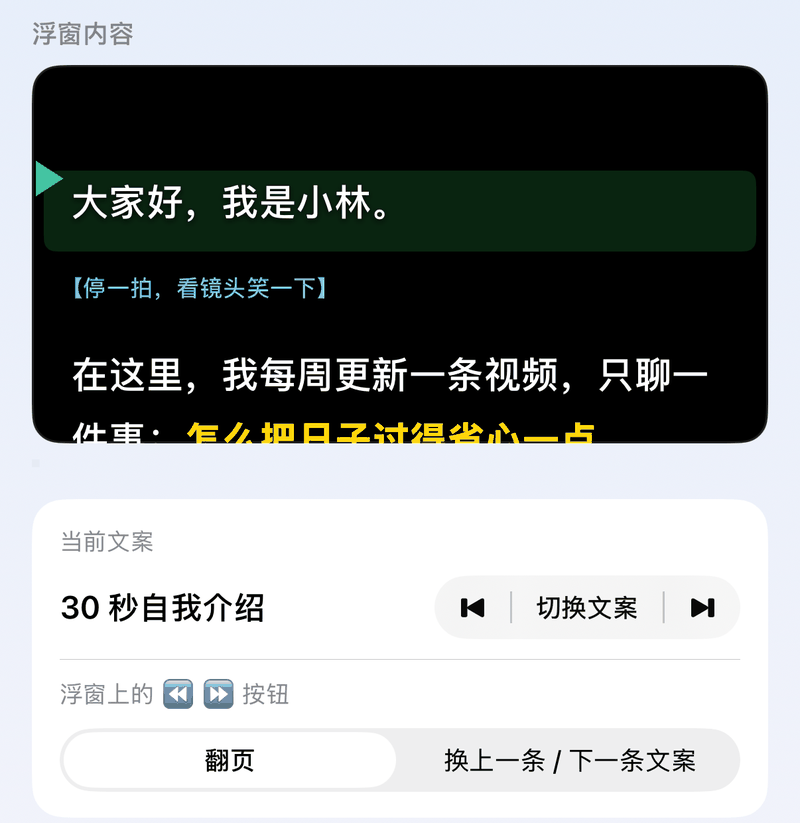
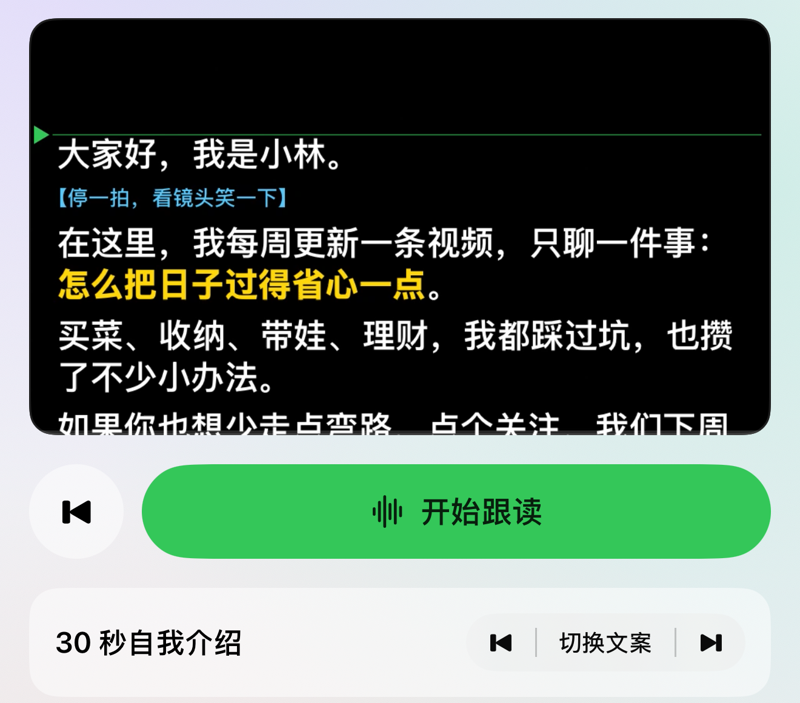
同步官网 2026-10-02 00:44

diff --git a/my-teleprompter/使用说明书.html b/my-teleprompter/使用说明书.html
@@ -542,7 +542,7 @@
 <div class="scroll"><table><thead><tr><th>按钮</th><th>作用</th></tr></thead><tbody><tr><td>≡</td><td>按住拖动窗口（也可以直接拖文字区域）</td></tr><tr><td>▶ / ⏸</td><td>开始 / 暂停（空格键）</td></tr><tr><td>‹ 2/5 ›</td><td>仅节目单播出时显示：上一条 / 当前第几条 / 下一条</td></tr><tr><td>⏮</td><td>从头开始（<kbd>R</kbd>）</td></tr><tr><td>✏ / ✓</td><td>进入 / 结束编辑（<kbd>E</kbd>）</td></tr><tr><td>模式名称</td><td>点开切换：智能跟读 / 匀速滚动 / 手动翻页</td></tr><tr><td>音柱</td><td>仅智能跟读模式显示，表示麦克风状态（见第 7.1 节）</td></tr><tr><td>🐢 数字 🐇</td><td>仅匀速滚动模式显示：减速 / 当前速度 / 加速</td></tr><tr><td>段落图标</td><td>仅稿件里有段落标题时显示：点开跳到指定段落</td></tr><tr><td>A− / A+</td><td>缩小 / 放大字号</td></tr><tr><td>状态提示</td><td>如「正在聆听…」「已暂停」「编辑中 · <kbd>Esc</kbd> 结束」</td></tr><tr><td>百分比</td><td>阅读进度</td></tr><tr><td>⇋</td><td>镜像翻转（<kbd>M</kbd>）</td></tr><tr><td>⏱</td><td>显示 / 隐藏计时器（<kbd>T</kbd>）</td></tr><tr><td>📺</td><td>外接屏幕输出开 / 关</td></tr><tr><td>👁</td><td>隐形提词开 / 关（划斜线表示已开启）</td></tr><tr><td>⊹</td><td>鼠标穿透开 / 关</td></tr><tr><td>✕</td><td>关闭提词窗（<kbd>Esc</kbd>）</td></tr></tbody></table></div>
 <p>亮起（有浅色底）的按钮表示该功能已开启。</p>
 <h3>6.3 阅读线、当前句与已读变暗</h3>
-<ul><li>左侧的<strong>橙色三角和细线</strong>是阅读线，正在读的内容会停在这条线上。位置可在设置里调整（默认距顶部 30%）。</li><li><strong>当前句高亮</strong>：正在读的整句话加一条半透明色带（默认强调色，可改色或关闭）。<ul><li>智能跟读模式：按识别到的朗读位置；</li><li>匀速 / 手动模式：取阅读线所在的那一句；</li><li>按句号、问号、感叹号、分号、省略号和换行分句；编辑时暂停高亮；外接屏幕同步显示。</li></ul></li><li>读过的文字会<strong>变暗</strong>，方便你知道读到了哪里（可关闭或改颜色）。</li></ul>
+<ul><li>左侧的<strong>橙色三角和细线</strong>是阅读线，正在读的内容会停在这条线上。位置可在设置里调整（默认距顶部 30%）。</li><li><strong>当前句高亮</strong>：正在读的整句话加一条半透明色带（默认强调色，可改色或关闭）。智能跟读时改成逐字色带：只给读过的部分铺色、一个字一个字往前推，读过的字不变暗；这时不用发光 / 描边（效果重复）。<ul><li>智能跟读模式：按识别到的朗读位置；</li><li>匀速 / 手动模式：取阅读线所在的那一句；</li><li>按句号、问号、感叹号、分号、省略号和换行分句；编辑时暂停高亮；外接屏幕同步显示。</li></ul></li><li>读过的文字会<strong>变暗</strong>，方便你知道读到了哪里（可关闭或改颜色）。</li></ul>
 <h3>6.4 调整窗口</h3>
 <ul><li><strong>移动</strong>：拖动工具栏左侧的 ≡，或直接拖动文字区域。</li><li><strong>改变大小</strong>：拖动窗口边缘或四角。窗口位置和大小会被记住。</li><li><strong>手动滚动</strong>：任何模式下都可以用触控板或滚轮滚动文字。</li><li><strong>进度</strong>：工具栏右侧显示百分比。</li></ul>
 <h3>6.5 关闭与隐藏</h3>
@@ -817,7 +817,7 @@
 <h3>16.3 提词模式</h3>
 <p>四种模式的切换（两行两列按钮，这里设置的是默认模式）；智能跟读的<strong>麦克风</strong>、<strong>跟读提前量</strong>、<strong>专有名词</strong>；匀速模式的<strong>滚动速度</strong>和<strong>开始前倒计时</strong>；歌词同步的<strong>提前显示</strong>。详见第 7 章。</p>
 <h3>16.4 文字</h3>
-<div class="scroll"><table><thead><tr><th>设置</th><th>范围</th><th>默认</th></tr></thead><tbody><tr><td>字体</td><td>系统默认 / 推荐字体（苹方、圆体、黑体、冬青黑体等）/ 本机全部字体</td><td>系统默认</td></tr><tr><td>字重</td><td>常规 / 中等 / 半粗 / 粗体 / 特粗</td><td>半粗</td></tr><tr><td>字号</td><td>18–160</td><td>40</td></tr><tr><td>字间距</td><td>0–12</td><td>0</td></tr><tr><td>行距</td><td>0–60</td><td>10</td></tr><tr><td>段间距</td><td>0–80</td><td>15</td></tr><tr><td>左右边距</td><td>0–160</td><td>36</td></tr><tr><td>居中对齐</td><td>开 / 关</td><td>关</td></tr><tr><td>文字颜色</td><td>任选</td><td>白色</td></tr><tr><td>高亮当前句</td><td>开 / 关</td><td>开</td></tr><tr><td>高亮样式</td><td>色带 / 发光 / 描边加粗（黄字黑边）</td><td>色带</td></tr><tr><td>强光模式</td><td>开 / 关：白底特粗黑字，已读不变暗，当前句加粗加粗下划线，重点和提示换深色；灯下、提词器玻璃反光时用</td><td>关</td></tr><tr><td>当前句颜色</td><td>跟随强调色 / 自选</td><td>跟随强调色</td></tr><tr><td>已读文字变暗</td><td>开 / 关</td><td>开</td></tr><tr><td>已读颜色</td><td>任选</td><td>灰色</td></tr></tbody></table></div>
+<div class="scroll"><table><thead><tr><th>设置</th><th>范围</th><th>默认</th></tr></thead><tbody><tr><td>字体</td><td>系统默认 / 推荐字体（苹方、圆体、黑体、冬青黑体等）/ 本机全部字体</td><td>系统默认</td></tr><tr><td>字重</td><td>常规 / 中等 / 半粗 / 粗体 / 特粗</td><td>半粗</td></tr><tr><td>字号</td><td>18–160</td><td>40</td></tr><tr><td>字间距</td><td>0–12</td><td>0</td></tr><tr><td>行距</td><td>0–60</td><td>10</td></tr><tr><td>段间距</td><td>0–80</td><td>15</td></tr><tr><td>左右边距</td><td>0–160</td><td>36</td></tr><tr><td>居中对齐</td><td>开 / 关</td><td>关</td></tr><tr><td>文字颜色</td><td>任选</td><td>白色</td></tr><tr><td>高亮当前句</td><td>开 / 关</td><td>开</td></tr><tr><td>高亮样式</td><td>色带 / 发光 / 描边加粗（黄字黑边）；智能跟读时一律用逐字色带</td><td>色带</td></tr><tr><td>强光模式</td><td>开 / 关：白底特粗黑字，已读不变暗，当前句加粗加粗下划线，重点和提示换深色；灯下、提词器玻璃反光时用</td><td>关</td></tr><tr><td>当前句颜色</td><td>跟随强调色 / 自选</td><td>跟随强调色</td></tr><tr><td>已读文字变暗</td><td>开 / 关</td><td>开</td></tr><tr><td>已读颜色</td><td>任选</td><td>灰色</td></tr></tbody></table></div>
 <p><strong>字体提示</strong></p>
 <ul><li>宋体、楷体、仿宋笔画较细，远距离或提词玻璃上不易看清，选择时会有提示，建议配合粗体使用。</li><li>字体设置保存在工程文件里。换到没有安装该字体的电脑时，会自动改用系统字体，并在设置里提示。</li><li>字体、字重、字间距、段间距、边距同时作用于提词窗和外接屏幕；编辑区保持系统字体，方便编辑。</li></ul>
 <h3>16.5 提词窗</h3>
@@ -839,7 +839,7 @@
 </section><section class="chapter" id="s29"><h2><span class="marker" aria-hidden="true"></span><span class="num"></span>16a. 版本与授权</h2>
 <p>三个版本：<strong>免费版</strong>（提词永久免费，智能跟读每天 20 分钟）、<strong>Pro</strong>（个人创作者：不限时长，专业录制和输出）、<strong>MAX</strong>（团队 / 工作室：多人协作、多机主备、机构授权）。手机和电脑是同一张表：</p>
 <p><strong>终身 MAX</strong>：¥1999 一次买断，终身享有 MAX 全部功能（含团队功能）和以后的更新；App Store 版在订阅页「终身买断」里买，官网版用终身序列号（授权码）激活。AI 算力点不含，另外买。Pro 只有订阅。</p>
-<div class="scroll"><table><thead><tr><th>功能</th><th>免费版</th><th>Pro</th><th>MAX</th></tr></thead><tbody><tr><td>声控 / 匀速 / 手动翻页，稿件不限，提词板，极简模式</td><td>✓</td><td>✓</td><td>✓</td></tr><tr><td>智能跟读</td><td>每天 20 分钟</td><td>不限</td><td>不限</td></tr><tr><td>拍摄提词（美颜、滤镜、换背景）</td><td>每天 20 分钟</td><td>不限</td><td>不限</td></tr><tr><td>4K / 60 帧拍摄</td><td>1080p / 30 帧</td><td>✓</td><td>✓</td></tr><tr><td>专业录制：ProRes、Apple Log（方便后期调色）</td><td>—</td><td>—</td><td>✓</td></tr><tr><td>批量连拍：几篇稿子排成清单，拍完一条自动换下一条</td><td>—</td><td>—</td><td>✓</td></tr><tr><td>浮窗提词</td><td>每天 20 分钟（和拍摄共用）</td><td>不限</td><td>不限</td></tr><tr><td>口播复盘</td><td>每天 3 次</td><td>不限</td><td>不限</td></tr><tr><td>剪掉重读、去气口、人声增强、识别字幕</td><td>每天 3 条</td><td>不限</td><td>不限</td></tr><tr><td>SRT 字幕导出</td><td>—</td><td>✓</td><td>✓</td></tr><tr><td>眼神校正</td><td>—</td><td>✓</td><td>✓</td></tr><tr><td>内容日历：排期、今天要拍、到期提醒</td><td>最多排 10 条</td><td>不限</td><td>不限</td></tr><tr><td>录音转文字、变成稿件</td><td>每天 10 分钟</td><td>每天 1 小时</td><td>不限</td></tr><tr><td>AI 写稿、AI 助手</td><td>✓</td><td>✓</td><td>✓</td></tr><tr><td>工程：全部稿件和设置存成一个文件</td><td>—</td><td>—</td><td>✓</td></tr><tr><td>历史版本</td><td>最近 5 版</td><td>每篇 80 版</td><td>每篇 80 版</td></tr><tr><td>手机遥控、跟随电脑（从机）、多机同步</td><td>✓</td><td>✓</td><td>✓</td></tr><tr><td>同时使用的设备（主设备 + 遥控 / 从机）</td><td>2 台</td><td>3 台</td><td>5 台</td></tr><tr><td>Apple Watch 遥控、手机与电脑互传、OBS / vMix 浏览器源</td><td>—</td><td>✓</td><td>✓</td></tr><tr><td>外接屏幕 / 多屏输出</td><td>—</td><td>✓</td><td>✓</td></tr><tr><td>电脑版：NDI 输出、直播弹幕</td><td>—</td><td>✓</td><td>✓</td></tr><tr><td>电脑版：显示当前时间</td><td>—</td><td>✓</td><td>✓</td></tr><tr><td>电脑版：网页多人改稿（团队协作、在线名单、自动合并）</td><td>—</td><td>—</td><td>✓</td></tr><tr><td>电脑版：团队排期（给每条内容指定负责人，按人看日历和看板）</td><td>—</td><td>—</td><td>✓</td></tr><tr><td>电脑版：多机主备热切换、Tally 灯、退出清空稿件</td><td>—</td><td>—</td><td>✓</td></tr><tr><td>机构多机位授权码、发票</td><td>—</td><td>—</td><td>✓</td></tr></tbody></table></div>
+<div class="scroll"><table><thead><tr><th>功能</th><th>免费版</th><th>Pro</th><th>MAX</th></tr></thead><tbody><tr><td>声控 / 匀速 / 手动翻页，稿件不限，提词板，极简模式</td><td>✓</td><td>✓</td><td>✓</td></tr><tr><td>智能跟读</td><td>每天 20 分钟</td><td>不限</td><td>不限</td></tr><tr><td>拍摄提词（美颜、滤镜、换背景）</td><td>每天 20 分钟</td><td>不限</td><td>不限</td></tr><tr><td>4K / 60 帧拍摄</td><td>1080p / 30 帧</td><td>✓</td><td>✓</td></tr><tr><td>专业录制：ProRes、Apple Log（方便后期调色）</td><td>—</td><td>—</td><td>✓</td></tr><tr><td>批量连拍：几篇稿子排成清单，拍完一条自动换下一条</td><td>—</td><td>—</td><td>✓</td></tr><tr><td>浮窗提词</td><td>每天 20 分钟（和拍摄共用）</td><td>不限</td><td>不限</td></tr><tr><td>口播复盘</td><td>每天 3 次</td><td>不限</td><td>不限</td></tr><tr><td>剪掉重读、去气口、人声增强、识别字幕</td><td>每天 3 条</td><td>不限</td><td>不限</td></tr><tr><td>SRT 字幕导出</td><td>—</td><td>✓</td><td>✓</td></tr><tr><td>眼神校正</td><td>—</td><td>✓</td><td>✓</td></tr><tr><td>内容日历：排期、今天要拍、到期提醒</td><td>最多排 10 条</td><td>不限</td><td>不限</td></tr><tr><td>录音转文字、变成稿件</td><td>每天 10 分钟</td><td>每天 1 小时</td><td>不限</td></tr><tr><td>AI 写稿、AI 助手</td><td>✓</td><td>✓</td><td>✓</td></tr><tr><td>工程：全部稿件和设置存成一个文件</td><td>—</td><td>—</td><td>✓</td></tr><tr><td>历史版本</td><td>最近 5 版</td><td>每篇 80 版</td><td>每篇 80 版</td></tr><tr><td>手机遥控、跟随电脑（从机）、多机同步</td><td>✓</td><td>✓</td><td>✓</td></tr><tr><td>同时使用的设备（主设备 + 遥控 / 从机）</td><td>2 台</td><td>3 台</td><td>5 台</td></tr><tr><td>Apple Watch 遥控、手机与电脑互传、OBS / vMix 浏览器源</td><td>—</td><td>✓</td><td>✓</td></tr><tr><td>外接屏幕 / 多屏输出</td><td>—</td><td>✓</td><td>✓</td></tr><tr><td>电脑版：NDI 输出、直播弹幕</td><td>—</td><td>✓</td><td>✓</td></tr><tr><td>电脑版：显示当前时间</td><td>—</td><td>✓</td><td>✓</td></tr><tr><td>电脑版：网页多人改稿（团队协作、在线名单、自动合并）</td><td>—</td><td>—</td><td>✓</td></tr><tr><td>团队排期（给每条内容指定负责人，按人看日历和看板）</td><td>—</td><td>—</td><td>✓</td></tr><tr><td>电脑版：多机主备热切换、Tally 灯、退出清空稿件</td><td>—</td><td>—</td><td>✓</td></tr><tr><td>机构多机位授权码、发票</td><td>—</td><td>—</td><td>✓</td></tr></tbody></table></div>
 <ul><li><strong>App Store 版</strong>：在「AI魔方提词器 › 授权…」里订阅 Pro 或 MAX，和 iPhone / iPad 版是同一个订阅；Pro 升级到 MAX 由 Apple 按升级处理。</li><li><strong>官网版</strong>：装上以后 <strong>14 天</strong>内全部功能可用（按 MAX）。之后在「授权…」里粘贴授权码激活（从 <code>VP1-</code> 开始的一长串）。授权码<strong>在本机离线验证</strong>，不用联网，内网机器也能激活；上面写着授权单位、版本、机位数和有效期。以前的「演播室版」授权码就是 MAX，照常可用。</li><li>「授权…」窗口并排列出三个版本和上面这张表，标着你现在是哪个版本。</li><li>没解锁的功能在设置里带「Pro」或「MAX」标记，点开能看到包含什么。网页改稿在 Pro 下只能遥控和看稿，保存修改时网页会提示「需要 MAX」。授权到期或移除后，你原来的开关设置不会被改动，重新激活就恢复原样。</li><li>官网版会每天检查一次有没有新版本，也可以从「AI魔方提词器 › 检查更新…」手动查；只提示、不自动替换程序。</li></ul>
 </section><section class="chapter" id="s17"><h2><span class="marker" aria-hidden="true"></span><span class="num">17</span>工程文件（多人使用）</h2>
 <h3>17.1 什么是工程</h3>

diff --git a/使用说明书.html b/使用说明书.html
@@ -542,7 +542,7 @@
 <div class="scroll"><table><thead><tr><th>按钮</th><th>作用</th></tr></thead><tbody><tr><td>≡</td><td>按住拖动窗口（也可以直接拖文字区域）</td></tr><tr><td>▶ / ⏸</td><td>开始 / 暂停（空格键）</td></tr><tr><td>‹ 2/5 ›</td><td>仅节目单播出时显示：上一条 / 当前第几条 / 下一条</td></tr><tr><td>⏮</td><td>从头开始（<kbd>R</kbd>）</td></tr><tr><td>✏ / ✓</td><td>进入 / 结束编辑（<kbd>E</kbd>）</td></tr><tr><td>模式名称</td><td>点开切换：智能跟读 / 匀速滚动 / 手动翻页</td></tr><tr><td>音柱</td><td>仅智能跟读模式显示，表示麦克风状态（见第 7.1 节）</td></tr><tr><td>🐢 数字 🐇</td><td>仅匀速滚动模式显示：减速 / 当前速度 / 加速</td></tr><tr><td>段落图标</td><td>仅稿件里有段落标题时显示：点开跳到指定段落</td></tr><tr><td>A− / A+</td><td>缩小 / 放大字号</td></tr><tr><td>状态提示</td><td>如「正在聆听…」「已暂停」「编辑中 · <kbd>Esc</kbd> 结束」</td></tr><tr><td>百分比</td><td>阅读进度</td></tr><tr><td>⇋</td><td>镜像翻转（<kbd>M</kbd>）</td></tr><tr><td>⏱</td><td>显示 / 隐藏计时器（<kbd>T</kbd>）</td></tr><tr><td>📺</td><td>外接屏幕输出开 / 关</td></tr><tr><td>👁</td><td>隐形提词开 / 关（划斜线表示已开启）</td></tr><tr><td>⊹</td><td>鼠标穿透开 / 关</td></tr><tr><td>✕</td><td>关闭提词窗（<kbd>Esc</kbd>）</td></tr></tbody></table></div>
 <p>亮起（有浅色底）的按钮表示该功能已开启。</p>
 <h3>6.3 阅读线、当前句与已读变暗</h3>
-<ul><li>左侧的<strong>橙色三角和细线</strong>是阅读线，正在读的内容会停在这条线上。位置可在设置里调整（默认距顶部 30%）。</li><li><strong>当前句高亮</strong>：正在读的整句话加一条半透明色带（默认强调色，可改色或关闭）。<ul><li>智能跟读模式：按识别到的朗读位置；</li><li>匀速 / 手动模式：取阅读线所在的那一句；</li><li>按句号、问号、感叹号、分号、省略号和换行分句；编辑时暂停高亮；外接屏幕同步显示。</li></ul></li><li>读过的文字会<strong>变暗</strong>，方便你知道读到了哪里（可关闭或改颜色）。</li></ul>
+<ul><li>左侧的<strong>橙色三角和细线</strong>是阅读线，正在读的内容会停在这条线上。位置可在设置里调整（默认距顶部 30%）。</li><li><strong>当前句高亮</strong>：正在读的整句话加一条半透明色带（默认强调色，可改色或关闭）。智能跟读时改成逐字色带：只给读过的部分铺色、一个字一个字往前推，读过的字不变暗；这时不用发光 / 描边（效果重复）。<ul><li>智能跟读模式：按识别到的朗读位置；</li><li>匀速 / 手动模式：取阅读线所在的那一句；</li><li>按句号、问号、感叹号、分号、省略号和换行分句；编辑时暂停高亮；外接屏幕同步显示。</li></ul></li><li>读过的文字会<strong>变暗</strong>，方便你知道读到了哪里（可关闭或改颜色）。</li></ul>
 <h3>6.4 调整窗口</h3>
 <ul><li><strong>移动</strong>：拖动工具栏左侧的 ≡，或直接拖动文字区域。</li><li><strong>改变大小</strong>：拖动窗口边缘或四角。窗口位置和大小会被记住。</li><li><strong>手动滚动</strong>：任何模式下都可以用触控板或滚轮滚动文字。</li><li><strong>进度</strong>：工具栏右侧显示百分比。</li></ul>
 <h3>6.5 关闭与隐藏</h3>
@@ -817,7 +817,7 @@
 <h3>16.3 提词模式</h3>
 <p>四种模式的切换（两行两列按钮，这里设置的是默认模式）；智能跟读的<strong>麦克风</strong>、<strong>跟读提前量</strong>、<strong>专有名词</strong>；匀速模式的<strong>滚动速度</strong>和<strong>开始前倒计时</strong>；歌词同步的<strong>提前显示</strong>。详见第 7 章。</p>
 <h3>16.4 文字</h3>
-<div class="scroll"><table><thead><tr><th>设置</th><th>范围</th><th>默认</th></tr></thead><tbody><tr><td>字体</td><td>系统默认 / 推荐字体（苹方、圆体、黑体、冬青黑体等）/ 本机全部字体</td><td>系统默认</td></tr><tr><td>字重</td><td>常规 / 中等 / 半粗 / 粗体 / 特粗</td><td>半粗</td></tr><tr><td>字号</td><td>18–160</td><td>40</td></tr><tr><td>字间距</td><td>0–12</td><td>0</td></tr><tr><td>行距</td><td>0–60</td><td>10</td></tr><tr><td>段间距</td><td>0–80</td><td>15</td></tr><tr><td>左右边距</td><td>0–160</td><td>36</td></tr><tr><td>居中对齐</td><td>开 / 关</td><td>关</td></tr><tr><td>文字颜色</td><td>任选</td><td>白色</td></tr><tr><td>高亮当前句</td><td>开 / 关</td><td>开</td></tr><tr><td>高亮样式</td><td>色带 / 发光 / 描边加粗（黄字黑边）</td><td>色带</td></tr><tr><td>强光模式</td><td>开 / 关：白底特粗黑字，已读不变暗，当前句加粗加粗下划线，重点和提示换深色；灯下、提词器玻璃反光时用</td><td>关</td></tr><tr><td>当前句颜色</td><td>跟随强调色 / 自选</td><td>跟随强调色</td></tr><tr><td>已读文字变暗</td><td>开 / 关</td><td>开</td></tr><tr><td>已读颜色</td><td>任选</td><td>灰色</td></tr></tbody></table></div>
+<div class="scroll"><table><thead><tr><th>设置</th><th>范围</th><th>默认</th></tr></thead><tbody><tr><td>字体</td><td>系统默认 / 推荐字体（苹方、圆体、黑体、冬青黑体等）/ 本机全部字体</td><td>系统默认</td></tr><tr><td>字重</td><td>常规 / 中等 / 半粗 / 粗体 / 特粗</td><td>半粗</td></tr><tr><td>字号</td><td>18–160</td><td>40</td></tr><tr><td>字间距</td><td>0–12</td><td>0</td></tr><tr><td>行距</td><td>0–60</td><td>10</td></tr><tr><td>段间距</td><td>0–80</td><td>15</td></tr><tr><td>左右边距</td><td>0–160</td><td>36</td></tr><tr><td>居中对齐</td><td>开 / 关</td><td>关</td></tr><tr><td>文字颜色</td><td>任选</td><td>白色</td></tr><tr><td>高亮当前句</td><td>开 / 关</td><td>开</td></tr><tr><td>高亮样式</td><td>色带 / 发光 / 描边加粗（黄字黑边）；智能跟读时一律用逐字色带</td><td>色带</td></tr><tr><td>强光模式</td><td>开 / 关：白底特粗黑字，已读不变暗，当前句加粗加粗下划线，重点和提示换深色；灯下、提词器玻璃反光时用</td><td>关</td></tr><tr><td>当前句颜色</td><td>跟随强调色 / 自选</td><td>跟随强调色</td></tr><tr><td>已读文字变暗</td><td>开 / 关</td><td>开</td></tr><tr><td>已读颜色</td><td>任选</td><td>灰色</td></tr></tbody></table></div>
 <p><strong>字体提示</strong></p>
 <ul><li>宋体、楷体、仿宋笔画较细，远距离或提词玻璃上不易看清，选择时会有提示，建议配合粗体使用。</li><li>字体设置保存在工程文件里。换到没有安装该字体的电脑时，会自动改用系统字体，并在设置里提示。</li><li>字体、字重、字间距、段间距、边距同时作用于提词窗和外接屏幕；编辑区保持系统字体，方便编辑。</li></ul>
 <h3>16.5 提词窗</h3>
@@ -839,7 +839,7 @@
 </section><section class="chapter" id="s29"><h2><span class="marker" aria-hidden="true"></span><span class="num"></span>16a. 版本与授权</h2>
 <p>三个版本：<strong>免费版</strong>（提词永久免费，智能跟读每天 20 分钟）、<strong>Pro</strong>（个人创作者：不限时长，专业录制和输出）、<strong>MAX</strong>（团队 / 工作室：多人协作、多机主备、机构授权）。手机和电脑是同一张表：</p>
 <p><strong>终身 MAX</strong>：¥1999 一次买断，终身享有 MAX 全部功能（含团队功能）和以后的更新；App Store 版在订阅页「终身买断」里买，官网版用终身序列号（授权码）激活。AI 算力点不含，另外买。Pro 只有订阅。</p>
-<div class="scroll"><table><thead><tr><th>功能</th><th>免费版</th><th>Pro</th><th>MAX</th></tr></thead><tbody><tr><td>声控 / 匀速 / 手动翻页，稿件不限，提词板，极简模式</td><td>✓</td><td>✓</td><td>✓</td></tr><tr><td>智能跟读</td><td>每天 20 分钟</td><td>不限</td><td>不限</td></tr><tr><td>拍摄提词（美颜、滤镜、换背景）</td><td>每天 20 分钟</td><td>不限</td><td>不限</td></tr><tr><td>4K / 60 帧拍摄</td><td>1080p / 30 帧</td><td>✓</td><td>✓</td></tr><tr><td>专业录制：ProRes、Apple Log（方便后期调色）</td><td>—</td><td>—</td><td>✓</td></tr><tr><td>批量连拍：几篇稿子排成清单，拍完一条自动换下一条</td><td>—</td><td>—</td><td>✓</td></tr><tr><td>浮窗提词</td><td>每天 20 分钟（和拍摄共用）</td><td>不限</td><td>不限</td></tr><tr><td>口播复盘</td><td>每天 3 次</td><td>不限</td><td>不限</td></tr><tr><td>剪掉重读、去气口、人声增强、识别字幕</td><td>每天 3 条</td><td>不限</td><td>不限</td></tr><tr><td>SRT 字幕导出</td><td>—</td><td>✓</td><td>✓</td></tr><tr><td>眼神校正</td><td>—</td><td>✓</td><td>✓</td></tr><tr><td>内容日历：排期、今天要拍、到期提醒</td><td>最多排 10 条</td><td>不限</td><td>不限</td></tr><tr><td>录音转文字、变成稿件</td><td>每天 10 分钟</td><td>每天 1 小时</td><td>不限</td></tr><tr><td>AI 写稿、AI 助手</td><td>✓</td><td>✓</td><td>✓</td></tr><tr><td>工程：全部稿件和设置存成一个文件</td><td>—</td><td>—</td><td>✓</td></tr><tr><td>历史版本</td><td>最近 5 版</td><td>每篇 80 版</td><td>每篇 80 版</td></tr><tr><td>手机遥控、跟随电脑（从机）、多机同步</td><td>✓</td><td>✓</td><td>✓</td></tr><tr><td>同时使用的设备（主设备 + 遥控 / 从机）</td><td>2 台</td><td>3 台</td><td>5 台</td></tr><tr><td>Apple Watch 遥控、手机与电脑互传、OBS / vMix 浏览器源</td><td>—</td><td>✓</td><td>✓</td></tr><tr><td>外接屏幕 / 多屏输出</td><td>—</td><td>✓</td><td>✓</td></tr><tr><td>电脑版：NDI 输出、直播弹幕</td><td>—</td><td>✓</td><td>✓</td></tr><tr><td>电脑版：显示当前时间</td><td>—</td><td>✓</td><td>✓</td></tr><tr><td>电脑版：网页多人改稿（团队协作、在线名单、自动合并）</td><td>—</td><td>—</td><td>✓</td></tr><tr><td>电脑版：团队排期（给每条内容指定负责人，按人看日历和看板）</td><td>—</td><td>—</td><td>✓</td></tr><tr><td>电脑版：多机主备热切换、Tally 灯、退出清空稿件</td><td>—</td><td>—</td><td>✓</td></tr><tr><td>机构多机位授权码、发票</td><td>—</td><td>—</td><td>✓</td></tr></tbody></table></div>
+<div class="scroll"><table><thead><tr><th>功能</th><th>免费版</th><th>Pro</th><th>MAX</th></tr></thead><tbody><tr><td>声控 / 匀速 / 手动翻页，稿件不限，提词板，极简模式</td><td>✓</td><td>✓</td><td>✓</td></tr><tr><td>智能跟读</td><td>每天 20 分钟</td><td>不限</td><td>不限</td></tr><tr><td>拍摄提词（美颜、滤镜、换背景）</td><td>每天 20 分钟</td><td>不限</td><td>不限</td></tr><tr><td>4K / 60 帧拍摄</td><td>1080p / 30 帧</td><td>✓</td><td>✓</td></tr><tr><td>专业录制：ProRes、Apple Log（方便后期调色）</td><td>—</td><td>—</td><td>✓</td></tr><tr><td>批量连拍：几篇稿子排成清单，拍完一条自动换下一条</td><td>—</td><td>—</td><td>✓</td></tr><tr><td>浮窗提词</td><td>每天 20 分钟（和拍摄共用）</td><td>不限</td><td>不限</td></tr><tr><td>口播复盘</td><td>每天 3 次</td><td>不限</td><td>不限</td></tr><tr><td>剪掉重读、去气口、人声增强、识别字幕</td><td>每天 3 条</td><td>不限</td><td>不限</td></tr><tr><td>SRT 字幕导出</td><td>—</td><td>✓</td><td>✓</td></tr><tr><td>眼神校正</td><td>—</td><td>✓</td><td>✓</td></tr><tr><td>内容日历：排期、今天要拍、到期提醒</td><td>最多排 10 条</td><td>不限</td><td>不限</td></tr><tr><td>录音转文字、变成稿件</td><td>每天 10 分钟</td><td>每天 1 小时</td><td>不限</td></tr><tr><td>AI 写稿、AI 助手</td><td>✓</td><td>✓</td><td>✓</td></tr><tr><td>工程：全部稿件和设置存成一个文件</td><td>—</td><td>—</td><td>✓</td></tr><tr><td>历史版本</td><td>最近 5 版</td><td>每篇 80 版</td><td>每篇 80 版</td></tr><tr><td>手机遥控、跟随电脑（从机）、多机同步</td><td>✓</td><td>✓</td><td>✓</td></tr><tr><td>同时使用的设备（主设备 + 遥控 / 从机）</td><td>2 台</td><td>3 台</td><td>5 台</td></tr><tr><td>Apple Watch 遥控、手机与电脑互传、OBS / vMix 浏览器源</td><td>—</td><td>✓</td><td>✓</td></tr><tr><td>外接屏幕 / 多屏输出</td><td>—</td><td>✓</td><td>✓</td></tr><tr><td>电脑版：NDI 输出、直播弹幕</td><td>—</td><td>✓</td><td>✓</td></tr><tr><td>电脑版：显示当前时间</td><td>—</td><td>✓</td><td>✓</td></tr><tr><td>电脑版：网页多人改稿（团队协作、在线名单、自动合并）</td><td>—</td><td>—</td><td>✓</td></tr><tr><td>团队排期（给每条内容指定负责人，按人看日历和看板）</td><td>—</td><td>—</td><td>✓</td></tr><tr><td>电脑版：多机主备热切换、Tally 灯、退出清空稿件</td><td>—</td><td>—</td><td>✓</td></tr><tr><td>机构多机位授权码、发票</td><td>—</td><td>—</td><td>✓</td></tr></tbody></table></div>
 <ul><li><strong>App Store 版</strong>：在「AI魔方提词器 › 授权…」里订阅 Pro 或 MAX，和 iPhone / iPad 版是同一个订阅；Pro 升级到 MAX 由 Apple 按升级处理。</li><li><strong>官网版</strong>：装上以后 <strong>14 天</strong>内全部功能可用（按 MAX）。之后在「授权…」里粘贴授权码激活（从 <code>VP1-</code> 开始的一长串）。授权码<strong>在本机离线验证</strong>，不用联网，内网机器也能激活；上面写着授权单位、版本、机位数和有效期。以前的「演播室版」授权码就是 MAX，照常可用。</li><li>「授权…」窗口并排列出三个版本和上面这张表，标着你现在是哪个版本。</li><li>没解锁的功能在设置里带「Pro」或「MAX」标记，点开能看到包含什么。网页改稿在 Pro 下只能遥控和看稿，保存修改时网页会提示「需要 MAX」。授权到期或移除后，你原来的开关设置不会被改动，重新激活就恢复原样。</li><li>官网版会每天检查一次有没有新版本，也可以从「AI魔方提词器 › 检查更新…」手动查；只提示、不自动替换程序。</li></ul>
 </section><section class="chapter" id="s17"><h2><span class="marker" aria-hidden="true"></span><span class="num">17</span>工程文件（多人使用）</h2>
 <h3>17.1 什么是工程</h3>

diff --git a/my-teleprompter/web/styles.css b/my-teleprompter/web/styles.css
@@ -58,7 +58,7 @@ svg { width: 20px; height: 20px; fill: none; stroke: currentColor; stroke-width:
 .topbar { display: flex; align-items: center; justify-content: space-between; gap: 12px; padding: 16px 0 12px; max-width: 1200px; width: 100%; margin: 0 auto; }
 .brand { display: flex; align-items: center; gap: 10px; min-width: 0; }
 .brand-icon { width: 36px; height: 36px; border-radius: 9px; box-shadow: 0 0 0 .5px rgba(0,0,0,.1); }
-.brand-name { font-size: 20px; font-weight: 700; letter-spacing: .01em; }
+.brand-name { font-size: 20px; font-weight: 700; letter-spacing: .01em; white-space: nowrap; overflow: hidden; text-overflow: ellipsis; }
 .brand-sub { font-size: 14px; color: var(--muted); }
 .topbar-actions { display: flex; gap: 8px; flex-wrap: wrap; justify-content: flex-end; }
 .chip { height: 36px; padding: 0 14px; border-radius: 18px; border: 0; background: var(--card); box-shadow: var(--shadow); font-size: 14px; font-weight: 500; white-space: nowrap; }
@@ -112,11 +112,17 @@ svg { width: 20px; height: 20px; fill: none; stroke: currentColor; stroke-width:
   .brand-sub { display: none; }
   .brand-icon { width: 30px; height: 30px; border-radius: 7px; }
   .brand-name { font-size: 17px; }
+  .brand { flex: 1 1 auto; }
   .topbar-actions { flex-wrap: nowrap; gap: 6px; }
   .topbar-actions .chip { padding-inline: 11px; }
+  .topbar-actions { flex-shrink: 0; }
   .primary { margin-left: 0; flex: 1; justify-content: center; }
   .segment { width: 100%; }
   .segment button { flex: 1; padding: 0 6px; }
+}
+/* 很窄的手机（375 宽）：名字加右边三个按钮放不下一行，只留图标，不再折成「AI魔方提词 / 器」两行 */
+@media (max-width: 400px) {
+  .brand-name { display: none; }
 }
 
 /* ── 提词画面 ── */

diff --git a/web/styles.css b/web/styles.css
@@ -58,7 +58,7 @@ svg { width: 20px; height: 20px; fill: none; stroke: currentColor; stroke-width:
 .topbar { display: flex; align-items: center; justify-content: space-between; gap: 12px; padding: 16px 0 12px; max-width: 1200px; width: 100%; margin: 0 auto; }
 .brand { display: flex; align-items: center; gap: 10px; min-width: 0; }
 .brand-icon { width: 36px; height: 36px; border-radius: 9px; box-shadow: 0 0 0 .5px rgba(0,0,0,.1); }
-.brand-name { font-size: 20px; font-weight: 700; letter-spacing: .01em; }
+.brand-name { font-size: 20px; font-weight: 700; letter-spacing: .01em; white-space: nowrap; overflow: hidden; text-overflow: ellipsis; }
 .brand-sub { font-size: 14px; color: var(--muted); }
 .topbar-actions { display: flex; gap: 8px; flex-wrap: wrap; justify-content: flex-end; }
 .chip { height: 36px; padding: 0 14px; border-radius: 18px; border: 0; background: var(--card); box-shadow: var(--shadow); font-size: 14px; font-weight: 500; white-space: nowrap; }
@@ -112,11 +112,17 @@ svg { width: 20px; height: 20px; fill: none; stroke: currentColor; stroke-width:
   .brand-sub { display: none; }
   .brand-icon { width: 30px; height: 30px; border-radius: 7px; }
   .brand-name { font-size: 17px; }
+  .brand { flex: 1 1 auto; }
   .topbar-actions { flex-wrap: nowrap; gap: 6px; }
   .topbar-actions .chip { padding-inline: 11px; }
+  .topbar-actions { flex-shrink: 0; }
   .primary { margin-left: 0; flex: 1; justify-content: center; }
   .segment { width: 100%; }
   .segment button { flex: 1; padding: 0 6px; }
+}
+/* 很窄的手机（375 宽）：名字加右边三个按钮放不下一行，只留图标，不再折成「AI魔方提词 / 器」两行 */
+@media (max-width: 400px) {
+  .brand-name { display: none; }
 }
 
 /* ── 提词画面 ── */

diff --git a/my-teleprompter/web/index.html b/my-teleprompter/web/index.html
@@ -227,7 +227,7 @@
           <option value="ja-JP">日本語</option>
         </select>
       </label>
-      <p class="note">智能跟读用浏览器自带的语音识别：Chrome、Edge、Safari 可用；识别过程由浏览器厂商的服务处理，AI魔方提词器收不到你的声音和文字。</p>
+      <p class="note">智能跟读用浏览器自带的语音识别：Edge、Safari、Chrome 可用（在国内建议用 Edge 或 Safari，Chrome 的识别走谷歌服务器，常连不上）；识别过程由浏览器厂商的服务处理，AI魔方提词器收不到你的声音和文字。</p>
     </div>
   </aside>
 </div>

diff --git a/web/index.html b/web/index.html
@@ -227,7 +227,7 @@
           <option value="ja-JP">日本語</option>
         </select>
       </label>
-      <p class="note">智能跟读用浏览器自带的语音识别：Chrome、Edge、Safari 可用；识别过程由浏览器厂商的服务处理，AI魔方提词器收不到你的声音和文字。</p>
+      <p class="note">智能跟读用浏览器自带的语音识别：Edge、Safari、Chrome 可用（在国内建议用 Edge 或 Safari，Chrome 的识别走谷歌服务器，常连不上）；识别过程由浏览器厂商的服务处理，AI魔方提词器收不到你的声音和文字。</p>
     </div>
   </aside>
 </div>

diff --git a/my-teleprompter/web/sw.js b/my-teleprompter/web/sw.js
@@ -1,6 +1,6 @@
 // 离线可用：第一次打开后把页面文件缓存下来，没网也能打开提词（智能跟读要联网识别除外）。
 // 改了网页文件发布时把 VERSION 加一，旧缓存会被换掉。
-const VERSION = 'frmzone-web-8';
+const VERSION = 'frmzone-web-9';
 const FILES = ['./', 'index.html', 'styles.css', 'manifest.webmanifest', 'library.json',
   'js/app.js', 'js/store.js', 'js/markup.js', 'js/follow.js', 'js/prompter.js', 'js/license.js',
   'icons/icon-192.png', 'icons/icon-512.png', 'icons/apple-touch-icon.png', 'icons/favicon-32.png'];

diff --git a/web/sw.js b/web/sw.js
@@ -1,6 +1,6 @@
 // 离线可用：第一次打开后把页面文件缓存下来，没网也能打开提词（智能跟读要联网识别除外）。
 // 改了网页文件发布时把 VERSION 加一，旧缓存会被换掉。
-const VERSION = 'frmzone-web-8';
+const VERSION = 'frmzone-web-9';
 const FILES = ['./', 'index.html', 'styles.css', 'manifest.webmanifest', 'library.json',
   'js/app.js', 'js/store.js', 'js/markup.js', 'js/follow.js', 'js/prompter.js', 'js/license.js',
   'icons/icon-192.png', 'icons/icon-512.png', 'icons/apple-touch-icon.png', 'icons/favicon-32.png'];

diff --git a/my-teleprompter/web/js/app.js b/my-teleprompter/web/js/app.js
@@ -383,6 +383,8 @@ let libSelected = null;
 async function openLibrary() {
   const dlg = $('libraryDialog');
   if (!library) {
+    // 第一次打开要下载 200 多篇台本（约 200 KB）：先提示一下，别让人以为没点上
+    toast('正在加载台本库…');
     try {
       library = await (await fetch('library.json')).json();
     } catch {

diff --git a/web/js/app.js b/web/js/app.js
@@ -383,6 +383,8 @@ let libSelected = null;
 async function openLibrary() {
   const dlg = $('libraryDialog');
   if (!library) {
+    // 第一次打开要下载 200 多篇台本（约 200 KB）：先提示一下，别让人以为没点上
+    toast('正在加载台本库…');
     try {
       library = await (await fetch('library.json')).json();
     } catch {

diff --git a/my-teleprompter/手机版说明书.md b/my-teleprompter/手机版说明书.md
@@ -183,17 +183,15 @@ title: 手机版使用说明
 ## 浮窗提词（画中画）
 <img src="screenshots/manual/manual-floating.png" alt="" width="320">
 
-*浮窗提词的控制台：上面一块是浮窗里会显示的内容，下面可以切换当前文案、设定浮窗上那两个按钮是翻页还是换文案。*
+*浮窗提词这一屏：上面就是浮窗本身，下面是「开始跟读 / 暂停」「从头开始」和换稿。*
 
-- 稿件下方点「浮窗提词」直接开启，或在提词板右上角点浮窗按钮；之后切到抖音、剪映、相机，提词会浮在最上面继续滚动和跟读。
-- **窗口大小由系统控制**：在浮窗上两指捏合可放大缩小，拖动换位置，推到屏幕边缘可以收起。
-- **形状和字号在「设置 › 浮窗提词」里调**：拖那个框就能拉成任意宽高比，改完浮窗会自动重开一次来套用；字号立刻生效。
-- 浮窗上的播放键控制开始 / 暂停，前后跳的按钮用来翻页。
-- **去哪个 App 拍**：浮窗控制台里会列出手机上装了的抖音、快手、小红书、视频号、哔哩哔哩、剪映等，点一下直接跳过去，浮窗跟着走；也可以在这里直接切换文案。
+- 稿件下方点「浮窗提词」，或在提词板右上角点浮窗按钮，进来就会准备好浮窗；点「开始跟读」，再回到桌面或切到别的应用，浮窗会自动浮在最上面。
+- **浮窗只做智能跟读**：对着手机念，浮窗跟着你的声音往下走；停下来它也停，不用调速度。
+- **窗口大小由系统控制**：在浮窗上两指捏合可放大缩小，拖动换位置，推到屏幕边缘可以收起。浮窗的形状和字号在「设置 › 浮窗提词」里调，改完浮窗画面会重新生成（几秒钟）。
+- 浮窗上的播放键是开始 / 暂停跟读；⏪ ⏩ 按秒往前后跳，跳过去以后从新位置接着跟。
+- **别的应用在录音时，浮窗听不到你**：iPhone 同一时间只有一个应用能用麦克风。切到相机、抖音、剪映、微信去录像时，麦克风归那一方，跟读收不到声音——这时浮窗会按你刚才的语速接着滚，不会停住；回到本应用会接着跟读。想边录边跟读，请用本应用的「拍摄提词」（录像和识别共用一路麦克风）。
+- 浮窗本身不出声，不影响别的应用录音。
 
-- **和别的应用抢麦克风**：切到相机、抖音、剪映、微信去录东西时，麦克风归那一方，智能跟读收不到声音。这时浮窗会**自动改成匀速滚动**接着滚（浮窗右上角显示当前模式，下面会有一行黄色提示），录完回到本应用会自动切回智能跟读。想让浮窗一直按自己的节奏走，也可以提前在「提词模式」里选匀速滚动。
-- 浮窗本身不出声，也不会占用麦克风，不影响别的应用录音。
-- **在浮窗上换文案**：画中画只有系统自带的几个按钮，加不了自定义按钮，所以把 ⏪ ⏩ 让出来了——在浮窗控制台里把「浮窗上的 ⏪ ⏩ 按钮」改成「换上一条 / 下一条文案」，之后在别的应用里点这两个按钮就能换稿，浮窗左上角会显示当前是哪一篇。默认还是翻页。
 ## 外接屏幕（电视 / 提词器硬件）
 - 用 HDMI 转接线，或用 AirPlay「屏幕镜像」把手机投到电视、显示器上，打开提词板后提词画面会全屏输出到外接屏幕，手机上照常操作。
 - 需要反射式提词玻璃时，在「设置 › 外接屏幕」里单独打开镜像翻转，不影响手机上的画面。
@@ -220,7 +218,7 @@ title: 手机版使用说明
 
 ## 强光下看得清
 - **强光模式**（户外、灯下看不清时）：调节 › 颜色最上面，或设置 › 颜色。打开后提词时屏幕亮度拉满（退出还原），提词板换成白底粗黑字，已读不变暗，当前句加粗加一道粗下划线；拍摄时字加粗加描边、提词区底色加深。遥控网页上也能开关。
-- **高亮样式**：「高亮当前句」开着时可以选色带（默认）、发光、描边加粗（黄字黑边，压在画面上也清楚）。
+- **高亮样式**：「高亮当前句」开着时可以选色带（默认）、发光、描边加粗（黄字黑边，压在画面上也清楚）。（智能跟读时不论选哪种，都改用逐字色带：只给你读过的部分铺色，一个字一个字往前推。）
 - **电脑版**也有：快捷面板 › 颜色最上面「强光模式」，设置里「高亮样式」三选一；外接屏、NDI 输出跟着变。电脑的屏幕亮度由系统管，强光模式不自动调亮度。
 
 ## OBS / vMix 浏览器源（直播叠字）

diff --git a/手机版说明书.md b/手机版说明书.md
@@ -183,17 +183,15 @@ title: 手机版使用说明
 ## 浮窗提词（画中画）
 <img src="screenshots/manual/manual-floating.png" alt="" width="320">
 
-*浮窗提词的控制台：上面一块是浮窗里会显示的内容，下面可以切换当前文案、设定浮窗上那两个按钮是翻页还是换文案。*
+*浮窗提词这一屏：上面就是浮窗本身，下面是「开始跟读 / 暂停」「从头开始」和换稿。*
 
-- 稿件下方点「浮窗提词」直接开启，或在提词板右上角点浮窗按钮；之后切到抖音、剪映、相机，提词会浮在最上面继续滚动和跟读。
-- **窗口大小由系统控制**：在浮窗上两指捏合可放大缩小，拖动换位置，推到屏幕边缘可以收起。
-- **形状和字号在「设置 › 浮窗提词」里调**：拖那个框就能拉成任意宽高比，改完浮窗会自动重开一次来套用；字号立刻生效。
-- 浮窗上的播放键控制开始 / 暂停，前后跳的按钮用来翻页。
-- **去哪个 App 拍**：浮窗控制台里会列出手机上装了的抖音、快手、小红书、视频号、哔哩哔哩、剪映等，点一下直接跳过去，浮窗跟着走；也可以在这里直接切换文案。
+- 稿件下方点「浮窗提词」，或在提词板右上角点浮窗按钮，进来就会准备好浮窗；点「开始跟读」，再回到桌面或切到别的应用，浮窗会自动浮在最上面。
+- **浮窗只做智能跟读**：对着手机念，浮窗跟着你的声音往下走；停下来它也停，不用调速度。
+- **窗口大小由系统控制**：在浮窗上两指捏合可放大缩小，拖动换位置，推到屏幕边缘可以收起。浮窗的形状和字号在「设置 › 浮窗提词」里调，改完浮窗画面会重新生成（几秒钟）。
+- 浮窗上的播放键是开始 / 暂停跟读；⏪ ⏩ 按秒往前后跳，跳过去以后从新位置接着跟。
+- **别的应用在录音时，浮窗听不到你**：iPhone 同一时间只有一个应用能用麦克风。切到相机、抖音、剪映、微信去录像时，麦克风归那一方，跟读收不到声音——这时浮窗会按你刚才的语速接着滚，不会停住；回到本应用会接着跟读。想边录边跟读，请用本应用的「拍摄提词」（录像和识别共用一路麦克风）。
+- 浮窗本身不出声，不影响别的应用录音。
 
-- **和别的应用抢麦克风**：切到相机、抖音、剪映、微信去录东西时，麦克风归那一方，智能跟读收不到声音。这时浮窗会**自动改成匀速滚动**接着滚（浮窗右上角显示当前模式，下面会有一行黄色提示），录完回到本应用会自动切回智能跟读。想让浮窗一直按自己的节奏走，也可以提前在「提词模式」里选匀速滚动。
-- 浮窗本身不出声，也不会占用麦克风，不影响别的应用录音。
-- **在浮窗上换文案**：画中画只有系统自带的几个按钮，加不了自定义按钮，所以把 ⏪ ⏩ 让出来了——在浮窗控制台里把「浮窗上的 ⏪ ⏩ 按钮」改成「换上一条 / 下一条文案」，之后在别的应用里点这两个按钮就能换稿，浮窗左上角会显示当前是哪一篇。默认还是翻页。
 ## 外接屏幕（电视 / 提词器硬件）
 - 用 HDMI 转接线，或用 AirPlay「屏幕镜像」把手机投到电视、显示器上，打开提词板后提词画面会全屏输出到外接屏幕，手机上照常操作。
 - 需要反射式提词玻璃时，在「设置 › 外接屏幕」里单独打开镜像翻转，不影响手机上的画面。
@@ -220,7 +218,7 @@ title: 手机版使用说明
 
 ## 强光下看得清
 - **强光模式**（户外、灯下看不清时）：调节 › 颜色最上面，或设置 › 颜色。打开后提词时屏幕亮度拉满（退出还原），提词板换成白底粗黑字，已读不变暗，当前句加粗加一道粗下划线；拍摄时字加粗加描边、提词区底色加深。遥控网页上也能开关。
-- **高亮样式**：「高亮当前句」开着时可以选色带（默认）、发光、描边加粗（黄字黑边，压在画面上也清楚）。
+- **高亮样式**：「高亮当前句」开着时可以选色带（默认）、发光、描边加粗（黄字黑边，压在画面上也清楚）。（智能跟读时不论选哪种，都改用逐字色带：只给你读过的部分铺色，一个字一个字往前推。）
 - **电脑版**也有：快捷面板 › 颜色最上面「强光模式」，设置里「高亮样式」三选一；外接屏、NDI 输出跟着变。电脑的屏幕亮度由系统管，强光模式不自动调亮度。
 
 ## OBS / vMix 浏览器源（直播叠字）
